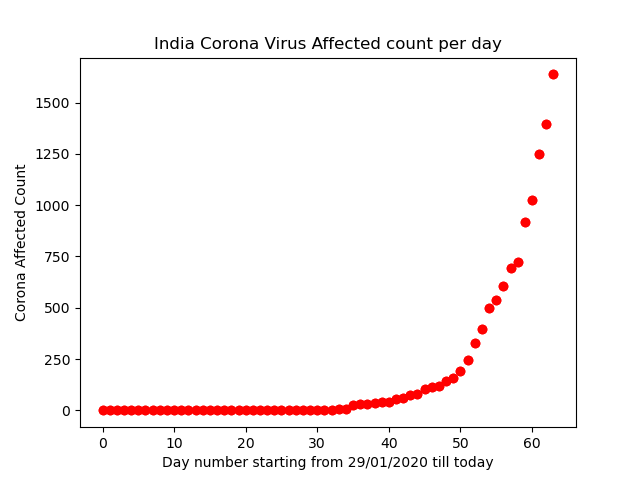
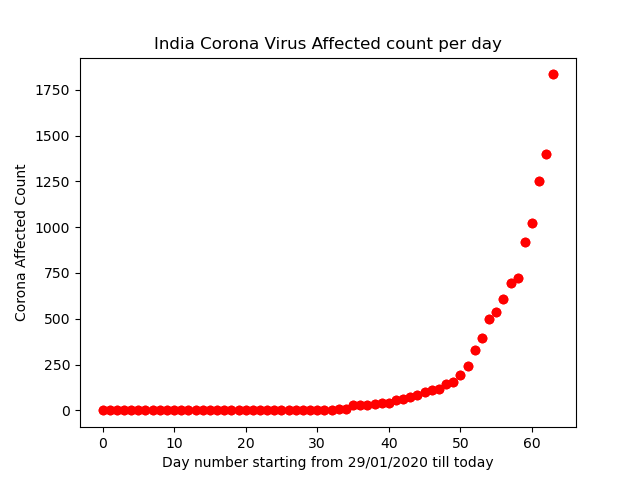
full

diff --git a/coronaIndia/plotMe.py b/coronaIndia/plotMe.py
@@ -62,7 +62,7 @@ def plotMeDiffSpain():
 
 def plotMeLatest() :
     y = [0,1,1,1,2,3,3,3,3,3,3,3,3,3,3,3,3,3,3,3,3,3,3,3,3,3,3,3,3,3,3,3,3,5,5,28,30,31,34,39,43,56,62,73,
-    82,102,113,119,142,156,194,244,330,396,499,536,606,694,724,917,1024,1251,1397,1637]
+    82,102,113,119,142,156,194,244,330,396,499,536,606,694,724,917,1024,1251,1397,1834]
     x = range(len(y))
     
     # x=['29/01/2020','30/01/2020','31/01/2020','01/02/2020','02/02/2020','03/02/2020','04/02/2020','05/02/2020','06/02/2020',
@@ -83,7 +83,7 @@ def plotMeLatest() :
 
 def plotMeInt():
     y = [0,1,1,1,2,3,3,3,3,3,3,3,3,3,3,3,3,3,3,3,3,3,3,3,3,3,3,3,3,3,3,3,3,5,5,28,30,31,34,39,43,56,62,73,
-    82,102,113,119,142,156,194,244,330,396,499,536,606,694,724,917,1024,1251,1397,1637]
+    82,102,113,119,142,156,194,244,330,396,499,536,606,694,724,917,1024,1251,1397,1834]
     x = list(range(len(y)))
     dates = ['29-01-20','30-01-20','31-01-20','01-02-20','02-02-20','03-02-20','04-02-20','05-02-20','06-02-20','07-02-20',
     '08-02-20','09-02-20','10-02-20','11-02-20','12-02-20','13-02-20','14-02-20','15-02-20','16-02-20','17-02-20','18-02-20',
